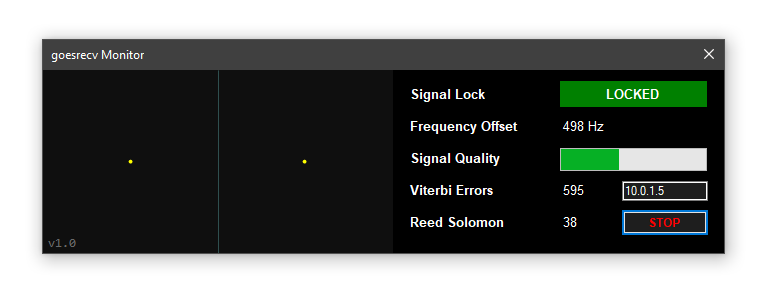
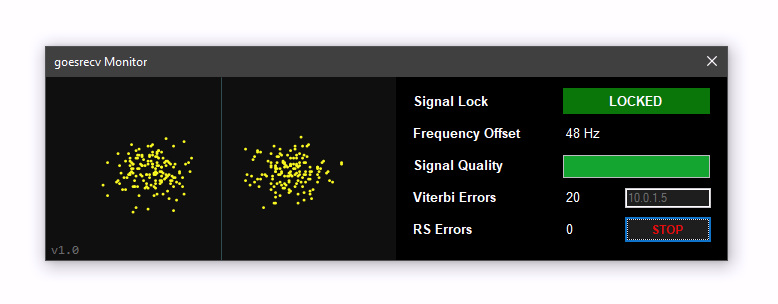
Symbol processing

diff --git a/goesrecv-monitor/Main.cs b/goesrecv-monitor/Main.cs
@@ -14,6 +14,9 @@ namespace goesrecv_monitor
 {
     public partial class Main : Form
     {
+        Bitmap constellationBase;
+        Point constellationCenter;
+
         public Main()
         {
             InitializeComponent();
@@ -35,9 +38,12 @@ namespace goesrecv_monitor
             // Set background colour
             pboxConstellation.BackColor = Color.FromArgb(255, 15, 15, 15);
 
+            // Get constellation center point
+            constellationCenter = new Point(pboxConstellation.Width / 2, pboxConstellation.Height / 2);
+
             // Create base bitmap
-            Bitmap bmp = new Bitmap(400, 400);
-            Graphics g = Graphics.FromImage(bmp);
+            constellationBase = new Bitmap(pboxConstellation.Width, pboxConstellation.Height);
+            Graphics g = Graphics.FromImage(constellationBase);
             g.SmoothingMode = SmoothingMode.AntiAlias;
 
             // Draw divider line
@@ -47,15 +53,48 @@ namespace goesrecv_monitor
             g.DrawLine(p, p1, p2);
 
             // Draw test points
+            /*
             Brush symBrush = Brushes.Yellow;
             int symWidth = 4;
             Point sym0 = new Point((pboxConstellation.Width / 4) - (symWidth / 2), (pboxConstellation.Height / 2) - (symWidth / 2));
             Point sym1 = new Point(((pboxConstellation.Width / 4) * 3) - (symWidth / 2), (pboxConstellation.Height / 2) - (symWidth / 2));
             g.FillEllipse(symBrush, sym0.X, sym0.Y, symWidth, symWidth);
             g.FillEllipse(symBrush, sym1.X, sym1.Y, symWidth, symWidth);
+            */
 
             // Show bitmap in picture box
-            pboxConstellation.Image = bmp;
+            pboxConstellation.Image = constellationBase;
+        }
+
+        /// <summary>
+        /// Draws symbols on constellation display
+        /// </summary>
+        /// <param name="points">List of point objects representing symbols</param>
+        public void DrawSymbols(List<Point> points)
+        {
+            Bitmap bmp = new Bitmap(constellationBase);
+            Graphics g = Graphics.FromImage(bmp);
+            g.SmoothingMode = SmoothingMode.AntiAlias;
+
+            foreach (Point p in points)
+            {
+                // Draw point
+                float pX = (float)constellationCenter.X + (float)(p.X * 1.5);
+                float pY = (float)constellationCenter.Y + (float)(p.Y * 1.5);
+                g.FillEllipse(Brushes.Yellow, pX, pY, 3, 3);
+
+                // Show bitmap in picture box
+                if (pboxConstellation.InvokeRequired)
+                {
+                    pboxConstellation.Invoke((MethodInvoker)(() => {
+                        pboxConstellation.Image = bmp;
+                    }));
+                }
+                else
+                {
+                    pboxConstellation.Image = bmp;
+                }
+            }
         }
 
         /// <summary>

diff --git a/goesrecv-monitor/Symbols.cs b/goesrecv-monitor/Symbols.cs
@@ -1,5 +1,6 @@
 using System;
 using System.Collections.Generic;
+using System.Drawing;
 using System.Linq;
 using System.Net;
 using System.Net.Sockets;
@@ -50,7 +51,25 @@ namespace goesrecv_monitor
 
             try
             {
+                // Connect socket
                 s.Connect(IP, SymbolPort);
+                Console.WriteLine("[SYMBOL] Connected to {0}:{1}", IP, SymbolPort.ToString());
+
+                // Send nanomsg init message
+                s.Send(nninit);
+
+                // Check nanomsg response
+                byte[] res = new byte[8];
+                int bytesRec = s.Receive(res);
+                if (res.SequenceEqual(nnires))
+                {
+                    Console.WriteLine("[SYMBOL] Nanomsg OK");
+                }
+                else
+                {
+                    string resHex = BitConverter.ToString(res);
+                    Console.WriteLine("[SYMBOL] Nanomsg error: {0} (Expected: {1})", resHex, BitConverter.ToString(nnires));
+                }
             }
             catch (Exception e)
             {
@@ -59,14 +78,35 @@ namespace goesrecv_monitor
 
             while (true)
             {
-                Thread.Sleep(100);
+                byte[] dres = new byte[1048576]; // 1M
+                s.Receive(dres);
+
+                List<Point> points = new List<Point>();
+
+                // Loop through bytes 2 at a time, skipping first 8
+                for (int i = 8; i < 1024; i = i + 2)
+                {
+                    sbyte symI = (sbyte) dres[i];
+                    sbyte symQ = (sbyte) dres[i + 1];
+
+                    // Ignore null values
+                    if (symI != '\0' && symQ != '\0')
+                    {
+                        points.Add(new Point(symI, symQ));
+                    }
+                }
+
+                // Update UI
+                Program.MainWindow.DrawSymbols(points);
+
+                Thread.Sleep(10);
             }
         }
 
 
         // Properties
         public static string IP { get; set; }
-        static readonly int SymbolPort = 5001;
+        static readonly int SymbolPort = 5002;
 
         /// <summary>
         /// Indicates if symbol processing thread is running

diff --git a/goesrecv-monitor/Program.cs b/goesrecv-monitor/Program.cs
@@ -9,13 +9,6 @@ namespace goesrecv_monitor
     static class Program
     {
         public static Main MainWindow;
-        
-        static bool Init()
-        {
-            Console.WriteLine("Initialising...");
-
-            return true;
-        }
 
         /// <summary>
         ///  Gracefully exits the application
@@ -24,6 +17,7 @@ namespace goesrecv_monitor
         {
             Console.WriteLine("Exiting...");
             Stats.Stop();
+            Symbols.Stop();
         }
 
         /// <summary>
@@ -34,8 +28,6 @@ namespace goesrecv_monitor
         {
             Application.EnableVisualStyles();
             Application.SetCompatibleTextRenderingDefault(false);
-
-            Init();
 
             MainWindow = new Main();
             Application.Run(MainWindow);
